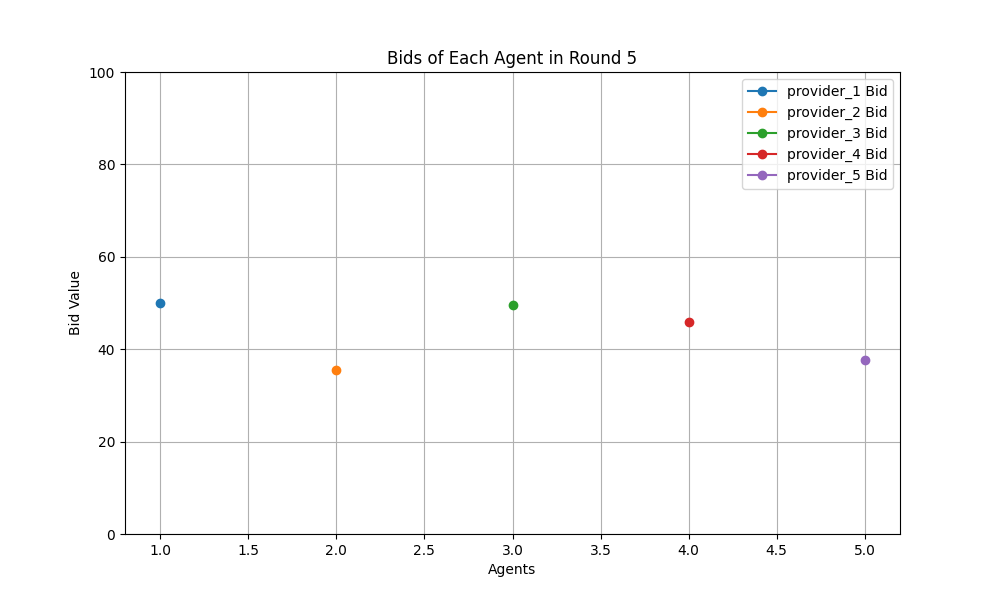
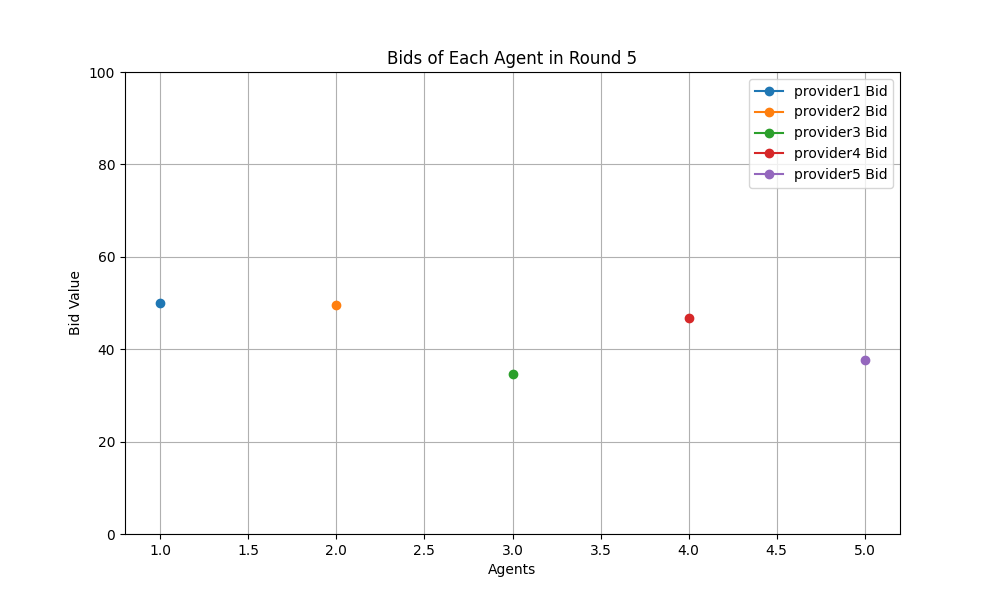
Fixed issue with provider names

diff --git a/spm/render/render.py b/spm/render/render.py
@@ -7,9 +7,9 @@ def render_env(num_agents, round_number, bids, agent_list, output_folder):
 
     plt.figure(figsize=(10, 6))
     lowest_bid = min(bids)
-    lowest_bid_index = bids.index(lowest_bid)
+    lowest_bid_agent = agent_list[bids.index(lowest_bid)]
     print(f"Round Number: {round_number}")
-    store_round_winner(round_number, lowest_bid, lowest_bid_index)
+    store_round_winner(round_number, lowest_bid, lowest_bid_agent)
     # Plot bids
     [plt.plot(i + 1, bids[i], marker='o', label=f"{agent_list[i]} Bid") for i in range(num_agents)]
     
@@ -59,7 +59,7 @@ def create_video_from_pngs(images_folder):
 ####### WRITE THE WINNER OF EACH ROUND INSIDE THE winner_agents.json #######
 def store_round_winner(round_number, bid, agent):
 
-    winner_agent = {"round": round_number, "agent": f"provider_{agent+1}", "bid": bid}
+    winner_agent = {"round": round_number, "agent": f"{agent}", "bid": bid}
     winner_file = "outputs/winner_agents.json"
     
     if round_number == 1:
